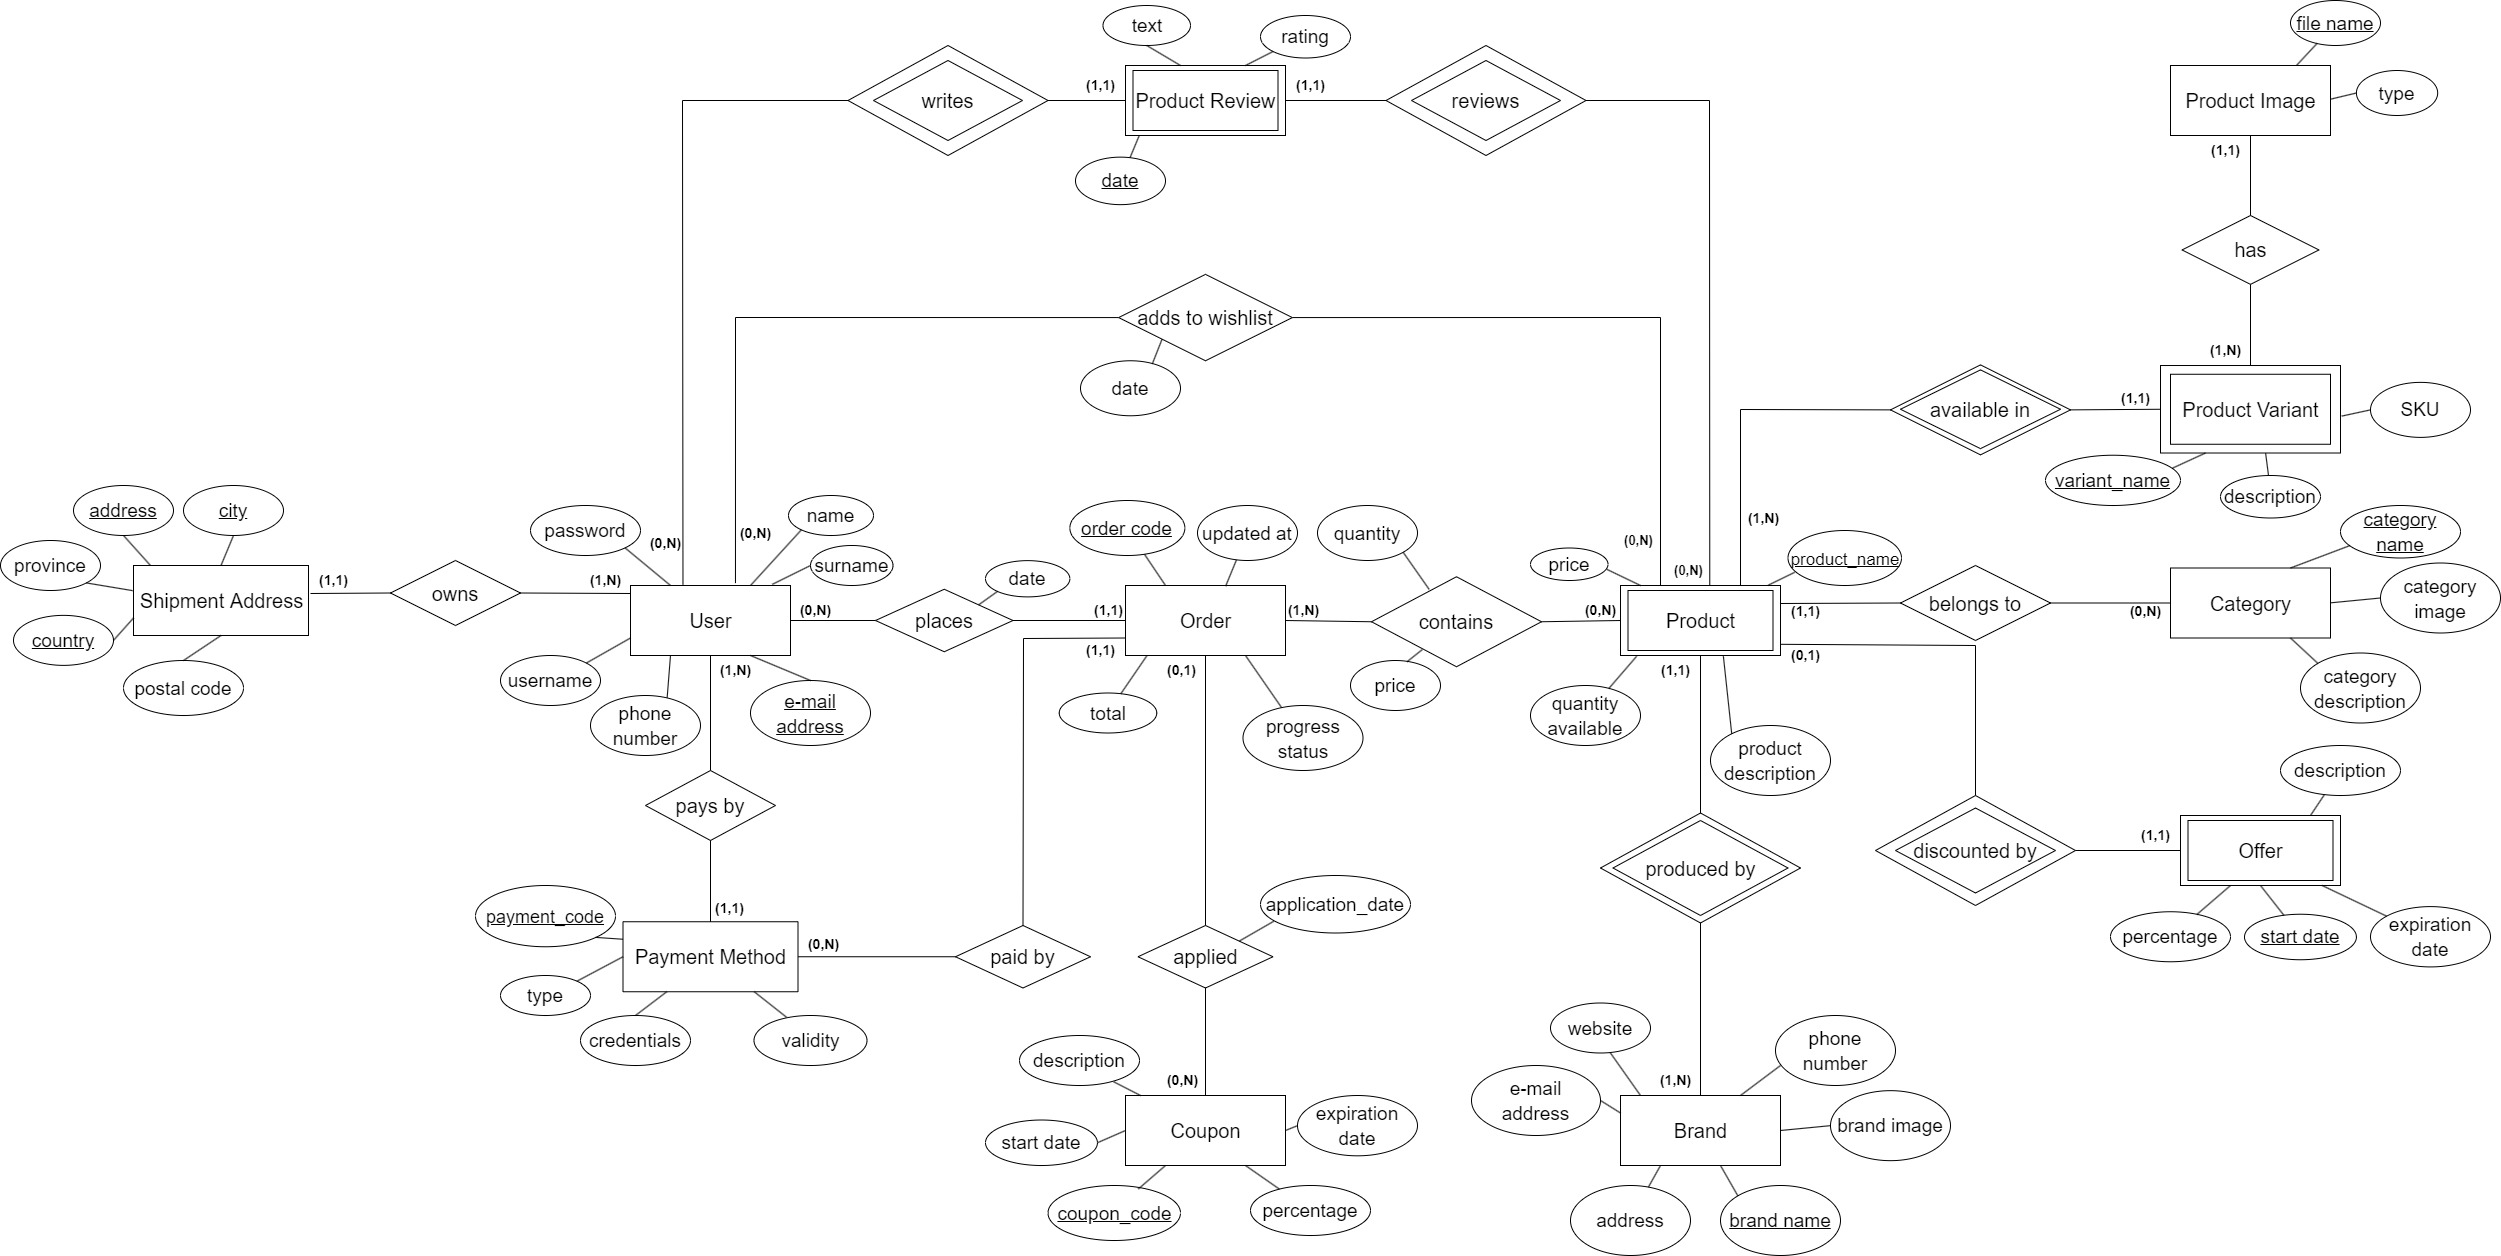
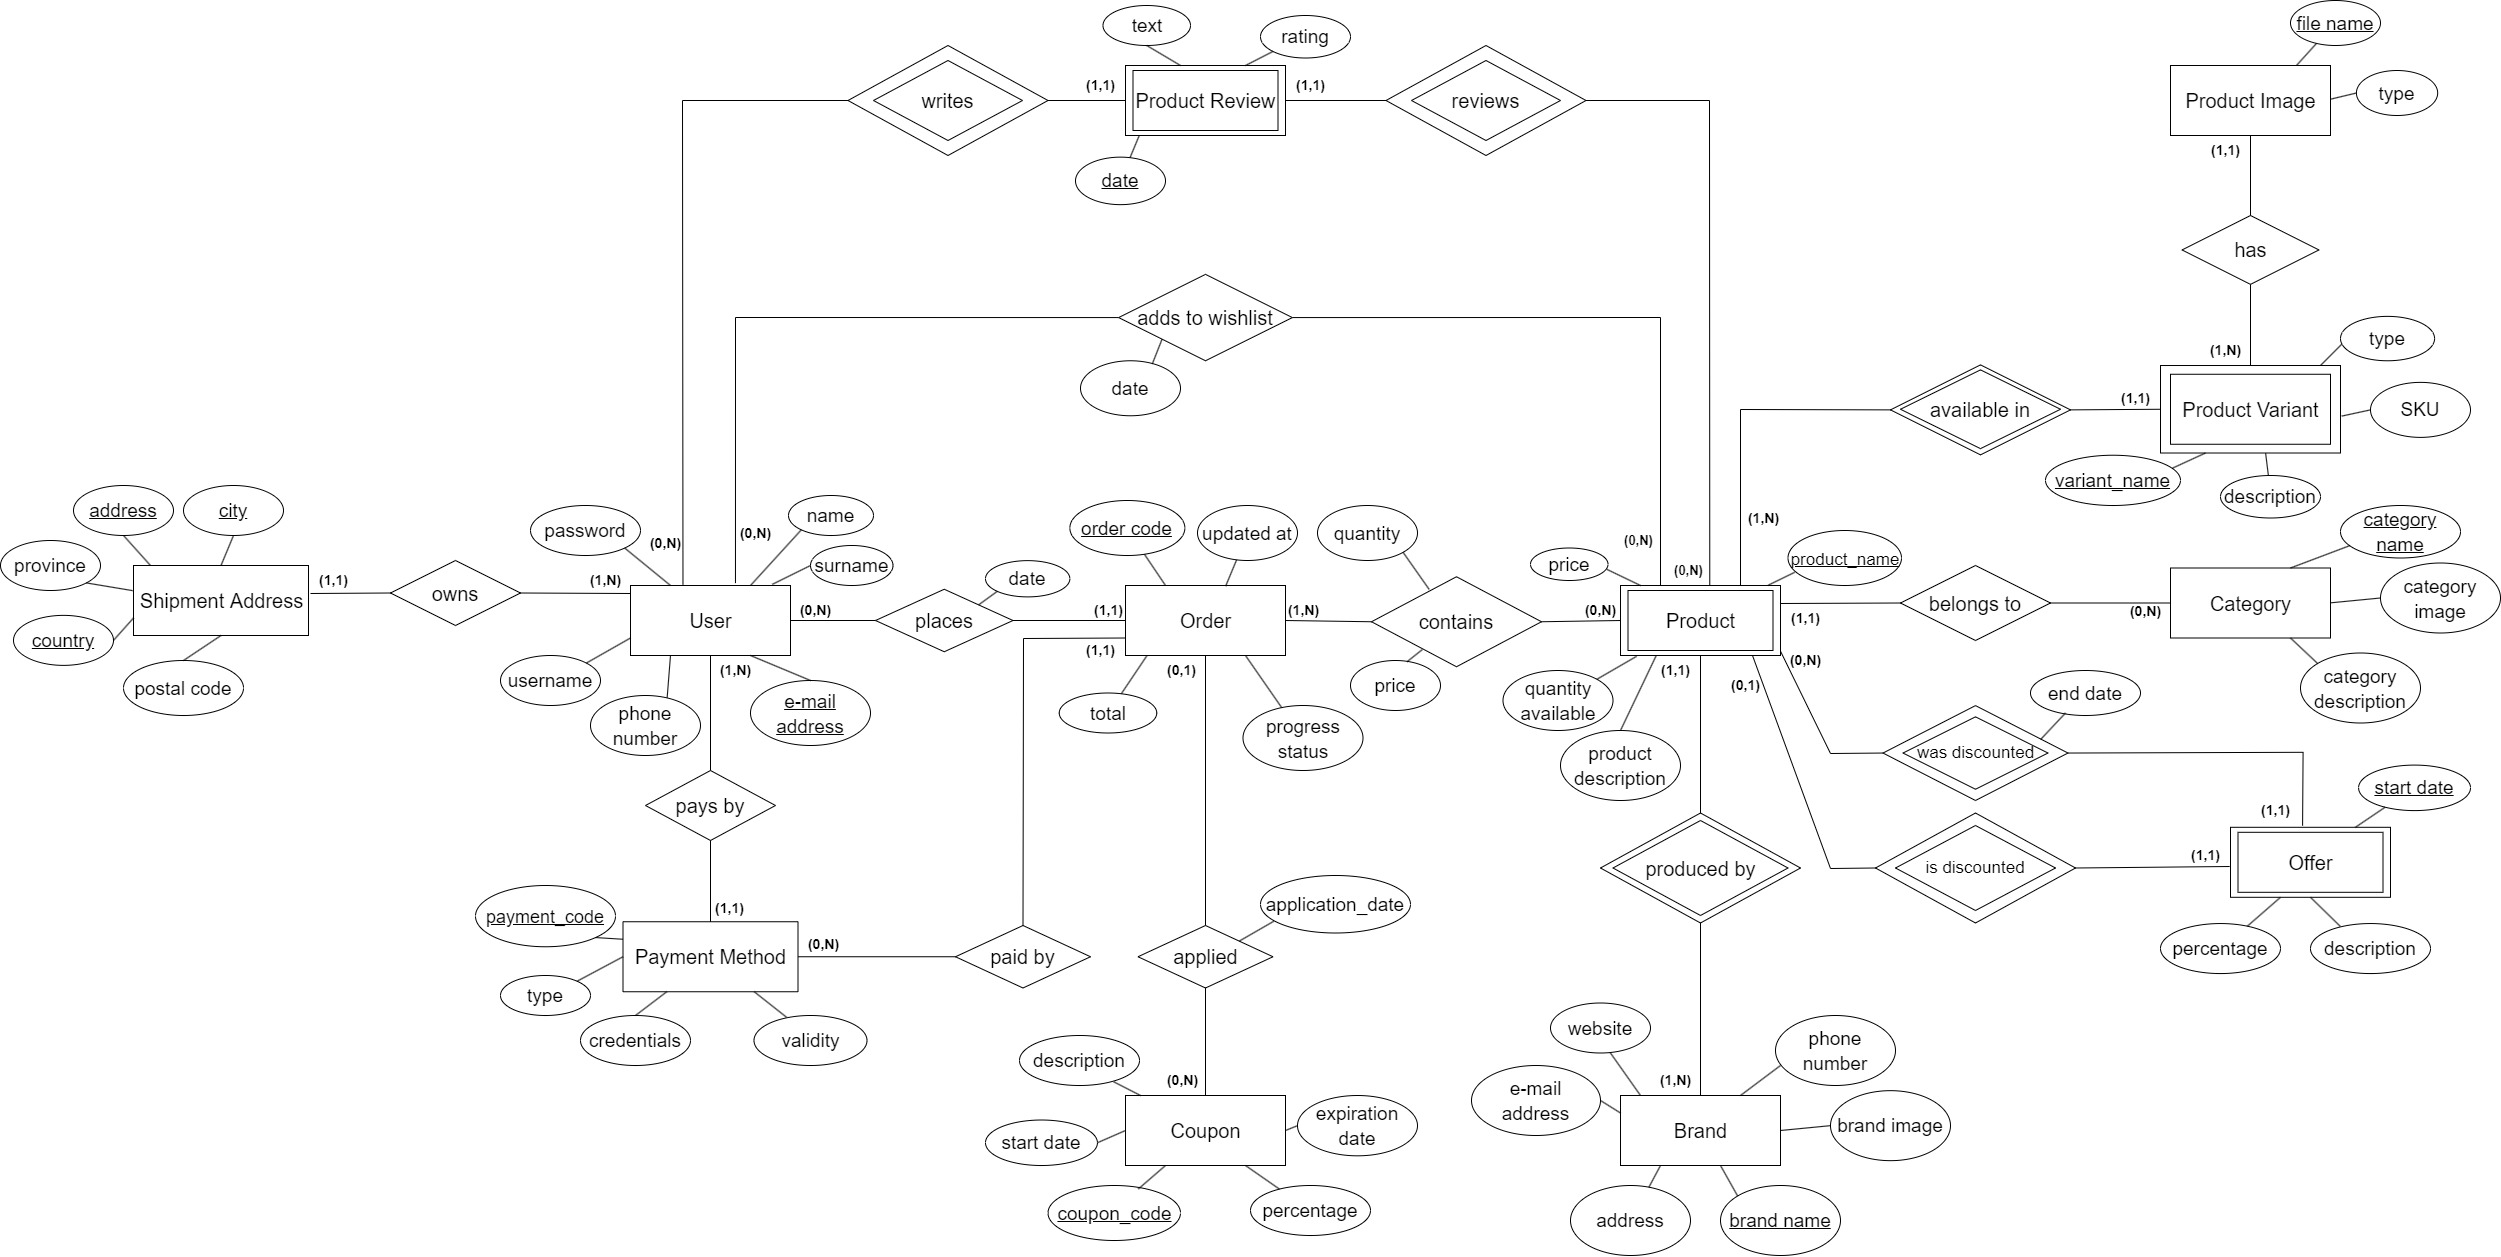
Iniziato a ritoccare il relazionale, finisco tra pco

diff --git a/documentation/database/Rationale ER.md b/documentation/database/Rationale ER.md
@@ -7,3 +7,7 @@
 - NON esistono, nel modello concettuale, identificatori sintetici. I codici, ove presenti, fanno riferimento (come indicato anche su GitHub) a codici esistenti o verosimili, e in ogni caso alfanumerici.
 - Con riferimento al punto precedente, le recensioni sono ora identificate univocamente dalla data di inserimento, dall'autore e dal prodotto di riferimento. Questo significa, per come abbiamo realizzato il modello, che è possibile che un utente scriva più di una recensione per lo stesso prodotto. Possiamo prenderla come la possibilità di aggiornare una recensione scritta nel passato o di scrivere una nuova a seguito del cambiamento delle caratteristiche di un prodotto.
 - Per noi, le varianti di un prodotto HANNO TUTTE lo stesso prezzo. NON consideriamo varianti di un ipotetico prodotto base le configurazioni che ne modifichino il prezzo. Ad esempio, un iPhone da 128 GB e uno da 64 GB sono DUE PRODOTTI, e non lo stesso. Al contrario, l'iPhone da 128 GB può avere una variante di colore argento, una di colore blu, una di colore rosso...
+- Brand e categorie hanno un'immagine (UNA sola) rappresentativa.
+- Un'offerta è (ora) associato a un SOLO prodotto. Di contro, un prodotto può non essere in offerta. Non ci riferiamo, dunque, a sconti su più prodotti.
+- Un coupon, al contrario, riduce il prezzo totale di un ordine. Ovviamente, un ordine può essere pagato a prezzo pieno.
+- Prevediamo solo due tipi di variante: di colore e di taglia. A questo scopo, l'entità "Product Variant" ha  un attributo di tipo. Questa situazione si verifica sovente in seguito alla ristrutturazione di un ER contenente una generalizzazione. Dal momento che abbiamo a disposizione un solo diagramma da mostrare al Professore, preferiamo per chiarezza mostrare l'attributo già da ora.
